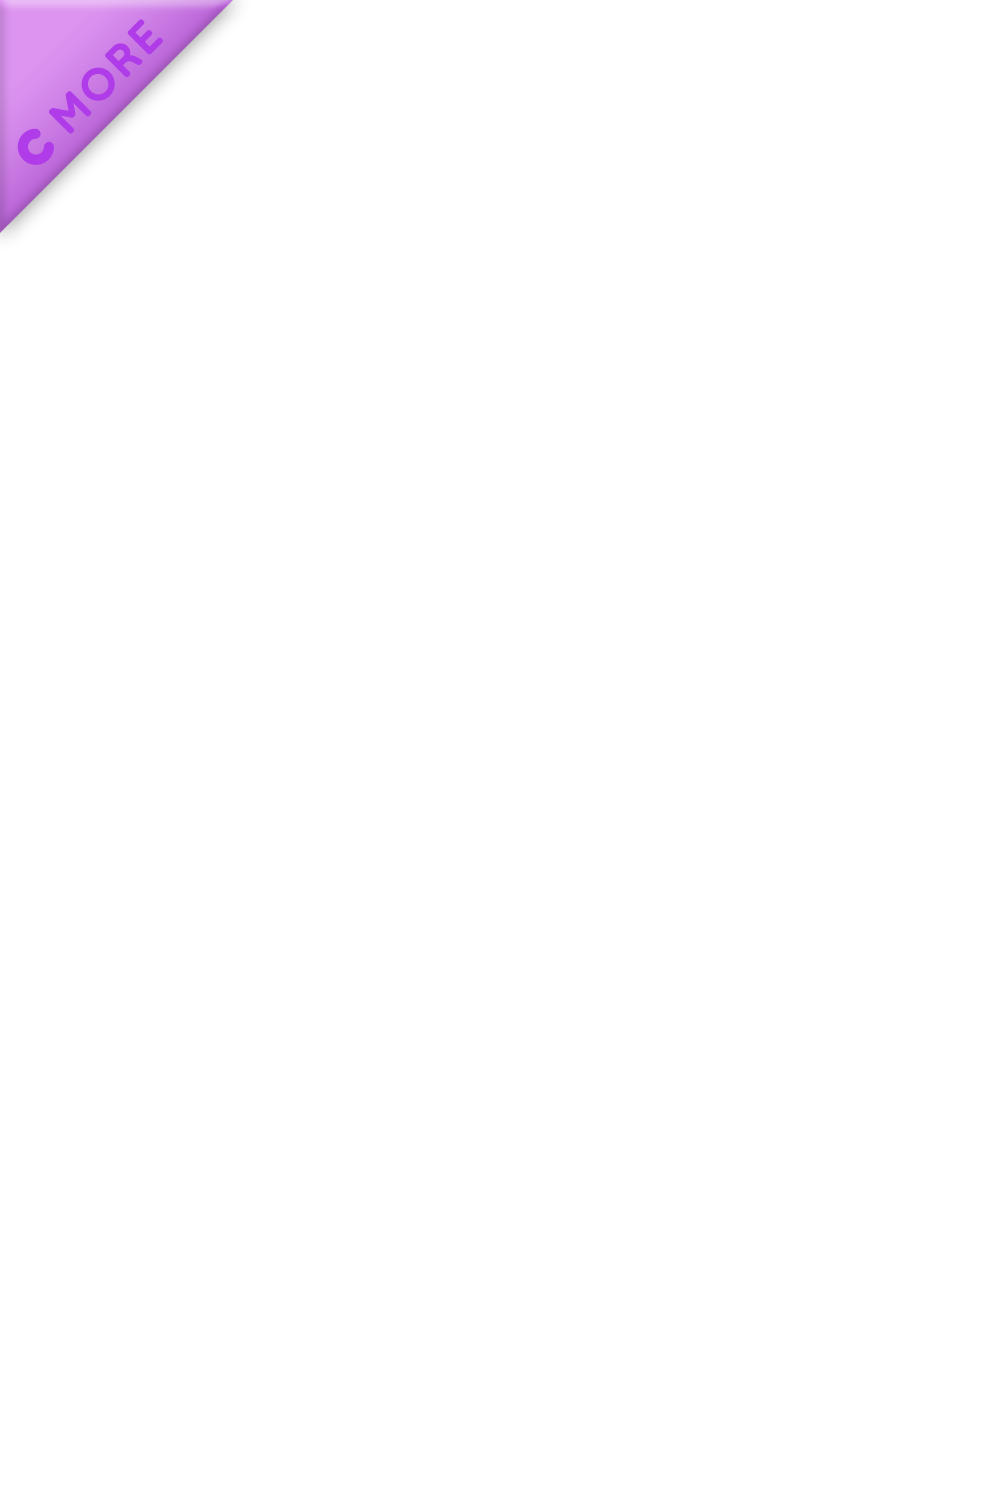
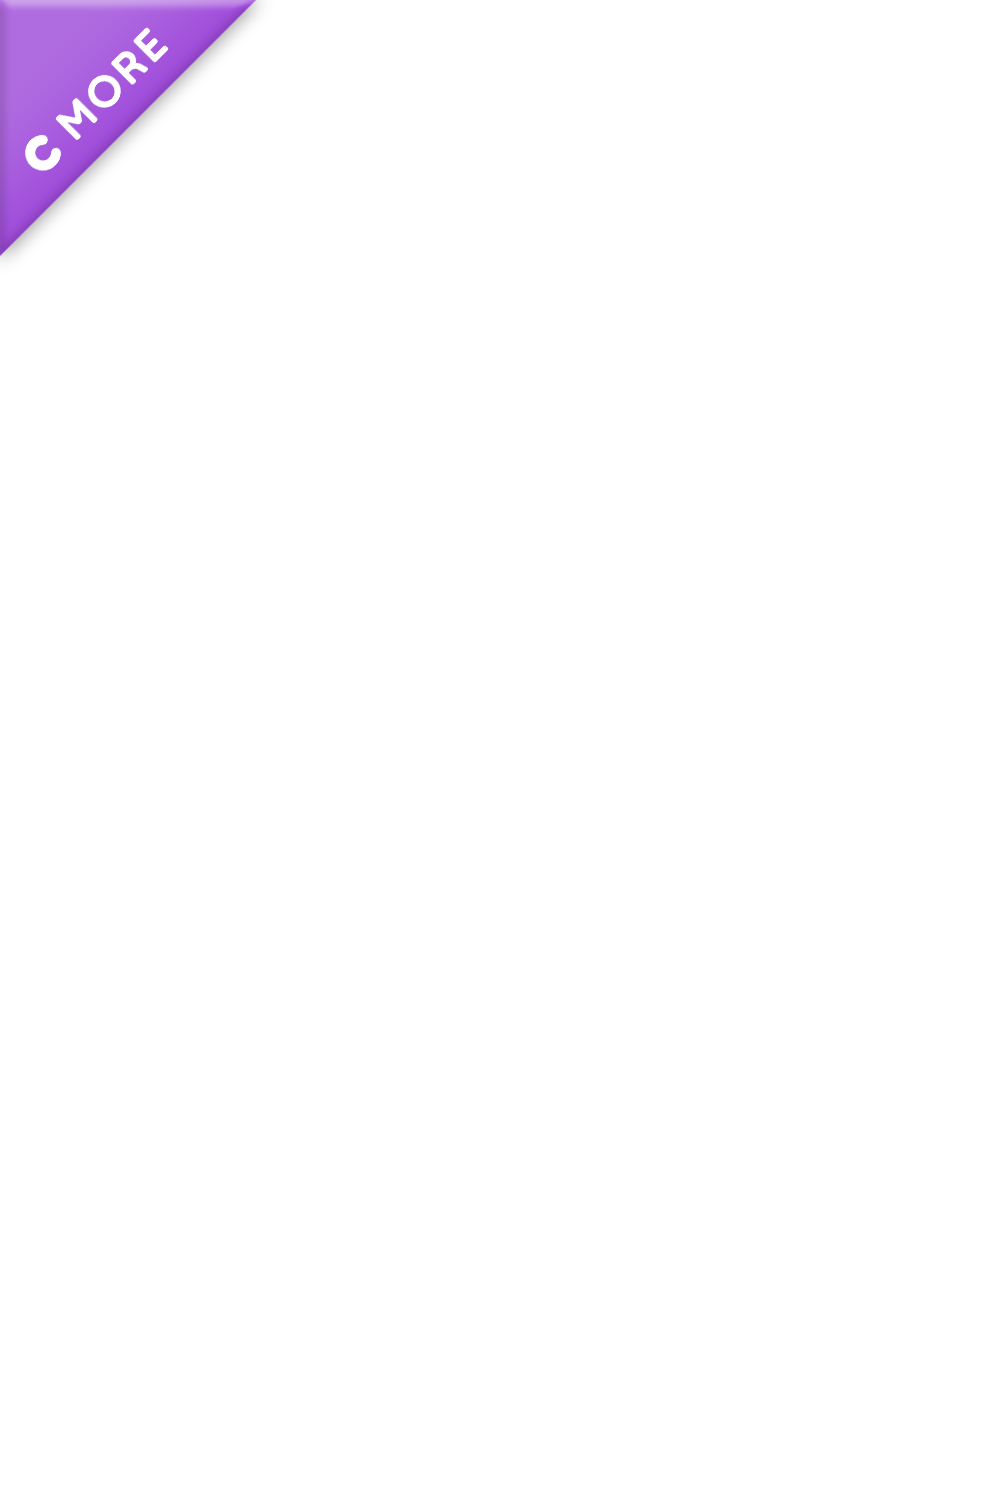
Update readme with new ribbon style resolution and audio codec

Changed region(s): [[0.0, 0.0, 0.248, 0.184]]

diff --git a/README.md b/README.md
@@ -3,12 +3,12 @@ This is where you'll find all my config files related to Plex Meta Manager. I've
 
 ## Movies
 ![Movie_overlay](https://github.com/s0len/meta-manager-config/assets/35483234/36da84a7-d15e-4691-a010-86117d64b16b)
-### Resolution in the upper left corner
+### Resolution as a ribbon style in the upper left corner
 ```yaml
 - url: https://raw.githubusercontent.com/s0len/meta-manager-config/main/overlays/resolution.yml
 ```
 
-### Audio in the upper left corner besides resolution
+### Audio as a ribbon style in the lower right corner
 ```yaml
 - url: https://raw.githubusercontent.com/s0len/meta-manager-config/main/overlays/audio_codec.yml
 ```
